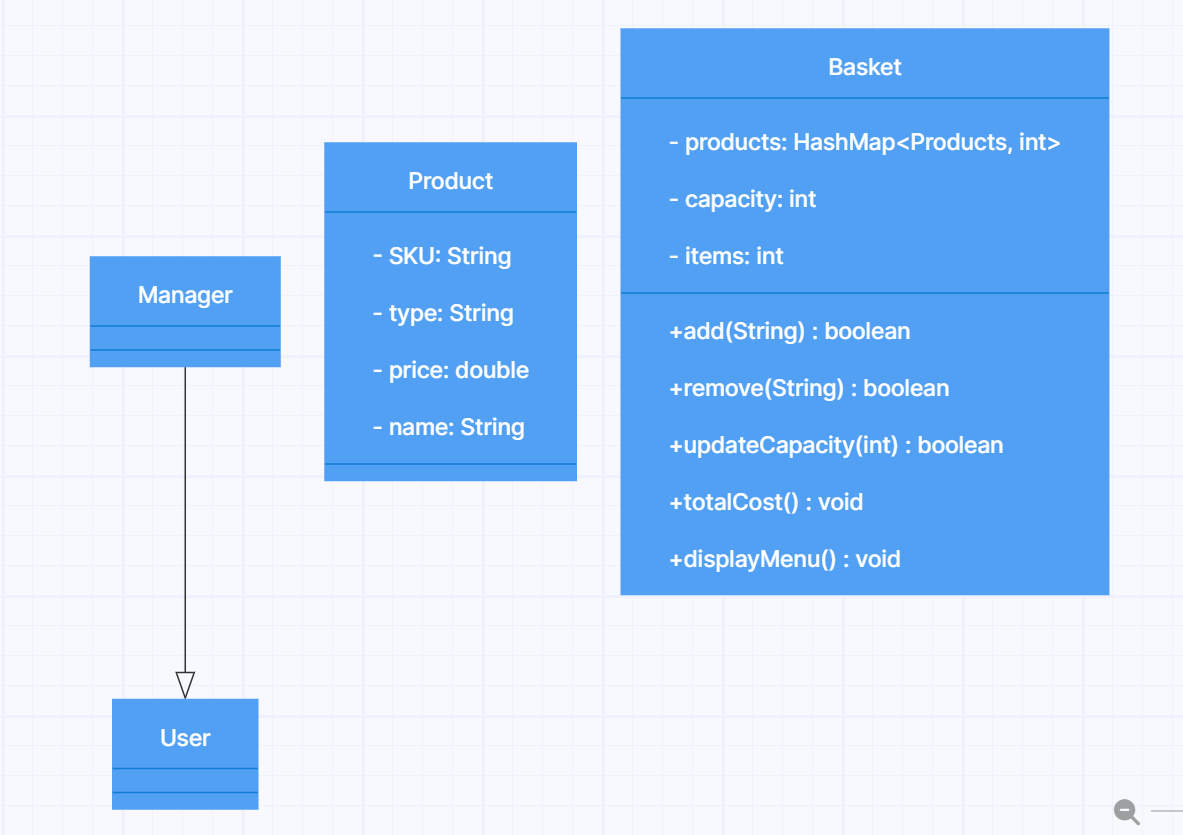
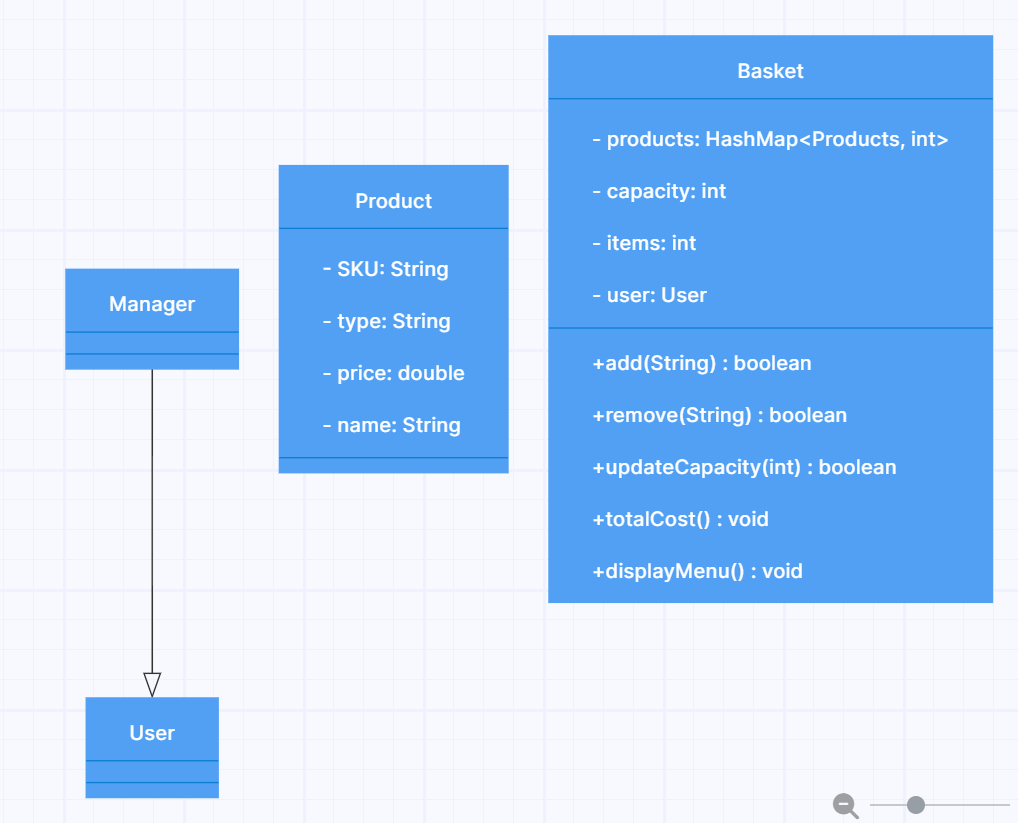
preps and fixes

diff --git a/src/main/java/com/booleanuk/core/Product.java b/src/main/java/com/booleanuk/core/Product.java
@@ -1,4 +1,93 @@
 package com.booleanuk.core;
 
+import javax.swing.plaf.ProgressBarUI;
+
 public class Product {
+    String SKU;
+    String type;
+    double price;
+    String name;
+
+    public Product(String SKU) throws IllegalStateException{
+
+        switch (SKU) {
+
+            case "BGLO":
+                type = "Bagel";
+                price = 0.49;
+                name = "Onion";
+                break;
+            case "BGLP":
+                type = "Bagel";
+                price = 0.39;
+                name = "Plain";
+                break;
+            case "BGLE":
+                type = "Bagel";
+                price = 0.49;
+                name = "Everything";
+                break;
+            case "BGLS":
+                type = "Bagel";
+                price = 0.49;
+                name = "Sesame";
+                break;
+
+            case "COFB":
+                type = "Coffee";
+                price = 0.99;
+                name = "Black";
+                break;
+            case "COFW":
+                type = "Coffee";
+                price = 1.19;
+                name = "White";
+                break;
+            case "COFC":
+                type = "Coffee";
+                price = 1.29;
+                name = "Cappuccino";
+                break;
+            case "COFL":
+                type = "Coffee";
+                price = 1.29;
+                name = "Latte";
+                break;
+
+            case "FILB":
+                type = "Filling";
+                price = 0.12;
+                name = "Bacon";
+                break;
+            case "FILE":
+                type = "Filling";
+                price = 0.12;
+                name = "Egg";
+                break;
+            case "FILC":
+                type = "Filling";
+                price = 0.12;
+                name = "Cheese";
+                break;
+            case "FILX":
+                type = "Filling";
+                price = 0.12;
+                name = "Cream Cheese";
+                break;
+            case "FILS":
+                type = "Filling";
+                price = 0.12;
+                name = "Smoked Salmon";
+                break;
+            case "FILH":
+                type = "Filling";
+                price = 0.12;
+                name = "Ham";
+                break;
+
+            default:
+                throw new IllegalStateException("Unexpected value: " + SKU);
+        }
+        this.SKU = SKU;
+    }
 }

diff --git a/domain-model.md b/domain-model.md
@@ -81,7 +81,7 @@ Basket
 | HashMap<Products, int> products | add(String SKU)                 | add product to basket, if already in basket increase amount.              | "Added <PRODUCT\> to basket", returns true if added.                                         | S1 & S8 & S10        |
 | int capacity                    |                                 | cannot add more products than capacity allows. Checks if item is on menu. | "Your basket is full", returns false if not added.                                           | S3                   |
 | int items                       | remove(String SKU)              | remove product from basket, receive message when not in basket.           | "Removed <PRODUCT> from basket", returns true if removed.                                    | S2                   |
-|                                 |                                 | remove item that's not in basket.                                         | "This product is not in your cart", returns false if not removed.                            | S5                   |
+| User user                       |                                 | remove item that's not in basket.                                         | "This product is not in your cart", returns false if not removed.                            | S5                   |
 |                                 | updateCapacity(int newCapacity) | Allows managers to update capacity. Needs authorization.                  | "Capacity updated." \|\| "Cannot update capacity." returns true if updated, false otherwise. | S4                   |
 |                                 | totalCost()                     | Displays the total cost of all items in basket.                           | Sum of every item's price, takes account of amounts.                                         | S6                   |
 |                                 | displayMenu()                   | to see what a products costs before buying.                               | Displays products and price of each product.                                                 | S7 & S9              |
